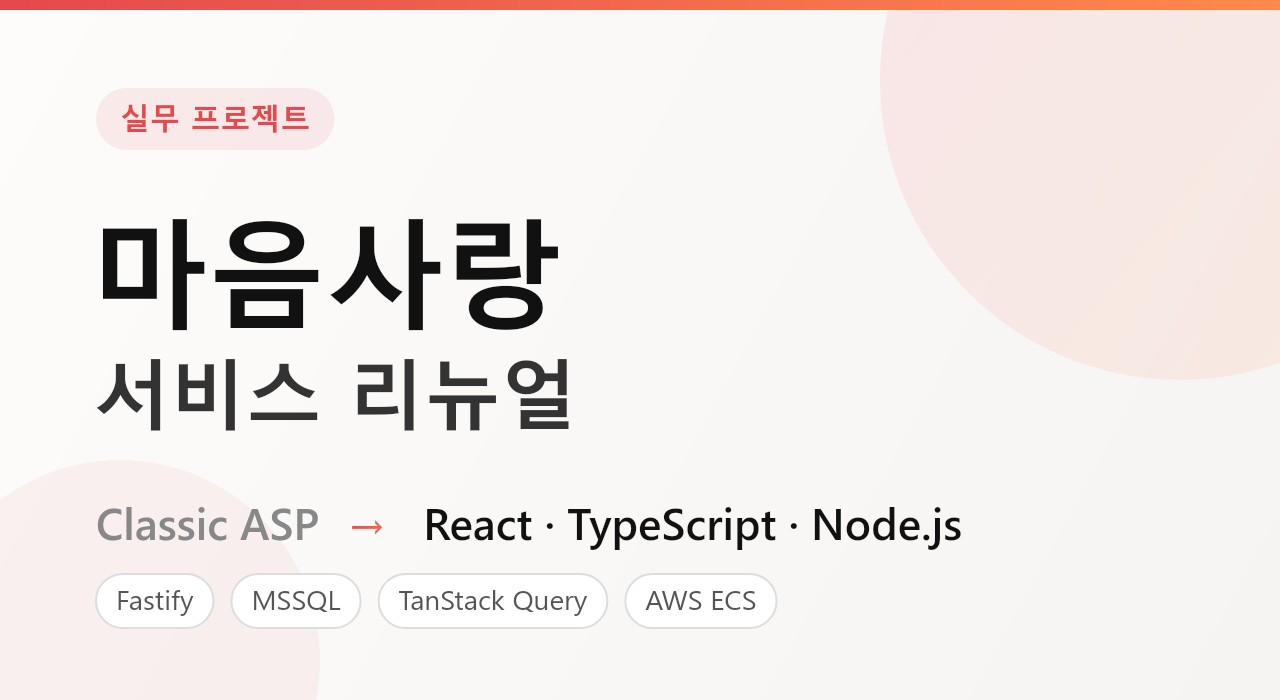
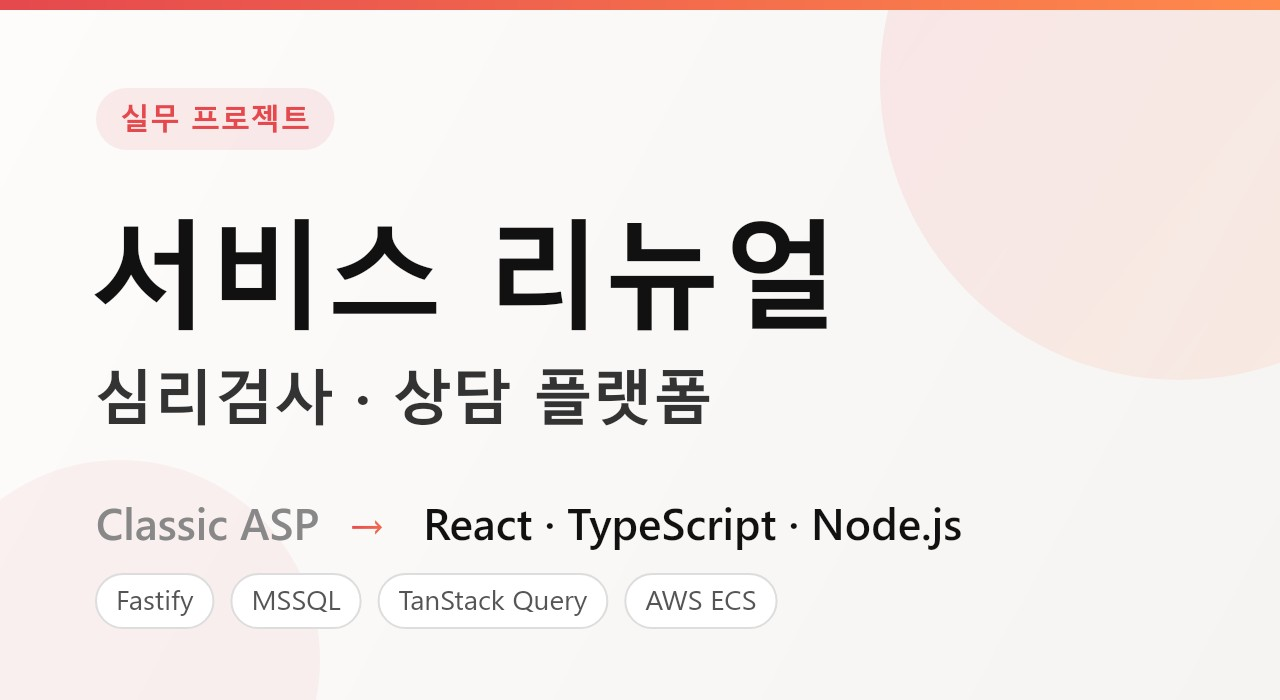
실무 프로젝트 카드에서 회사명·진행 기간 제거 (익명화)

Changed region(s): [[0.0625, 0.3, 0.6562, 0.48], [0.0625, 0.51, 0.5625, 0.63]]

diff --git a/src/component/Project.js b/src/component/Project.js
@@ -12,8 +12,8 @@ import maumsarangThumb from "../css/img/project/maumsarang.jpg";
 
 const projects = [
   {
-    title: "마음사랑 서비스 리뉴얼 (실무)",
-    period: "회사 프로젝트 · 2025.11 ~ 진행 중",
+    title: "심리검사·상담 서비스 리뉴얼 (실무)",
+    period: "회사 프로젝트",
     summary: "레거시 Classic ASP 시스템을 React/TypeScript + Node.js(Fastify)로 점진 이관",
     details: [
       "워크샵·강사 관리 시스템을 React 19 + TS + TanStack Query로 리뉴얼 (강사 등록·인증 플로우, 수강생 엑셀 검증 등 주도)",

diff --git a/public/maumsarang-README.md b/public/maumsarang-README.md
@@ -1,8 +1,8 @@
 
-<h1>마음사랑 서비스 리뉴얼</h1>
+<h1>심리검사·상담 서비스 리뉴얼</h1>
 
 <div class="readImg">
-    <img src="readme-img/maumsarang-cover.jpg" alt="마음사랑 서비스 리뉴얼" />
+    <img src="readme-img/maumsarang-cover.jpg" alt="서비스 리뉴얼 프로젝트" />
 </div>
 <br/>
 <h4 style="color:black; background-color:white; margin:0; padding:0;">레거시를 멈추지 않고, 새 스택으로 갈아타기 !</h4><br/>
@@ -10,10 +10,10 @@
 <b>🏢 심리검사·상담 서비스의 레거시 시스템 현대화 (실무)</b><br/>
 
 <div class="readLineheight">
- 심리검사·상담 서비스 <b>마음사랑</b>의 운영 시스템은 오랫동안 Classic ASP로 운영되어 왔습니다.<br/>
+ 심리검사·상담 서비스의 운영 시스템은 오랫동안 Classic ASP로 운영되어 왔습니다.<br/>
  서비스를 멈추지 않은 채, 워크샵 관리 시스템과 관리자 백엔드를
  <b>React · TypeScript · Node.js(Fastify)</b> 스택으로 점진적으로 이관하는 프로젝트에
- 주력 개발자로 참여하고 있습니다. (2025.11 ~ 진행 중)
+ 주력 개발자로 참여하고 있습니다.
 </div>
 <br/>
 
@@ -86,5 +86,5 @@
 </div>
 <br/>
 
-<b>✨ 멈추지 않는 서비스 위에서, 레거시를 미래로 — 마음사랑 리뉴얼 !
+<b>✨ 멈추지 않는 서비스 위에서, 레거시를 미래로 !
 </b>
